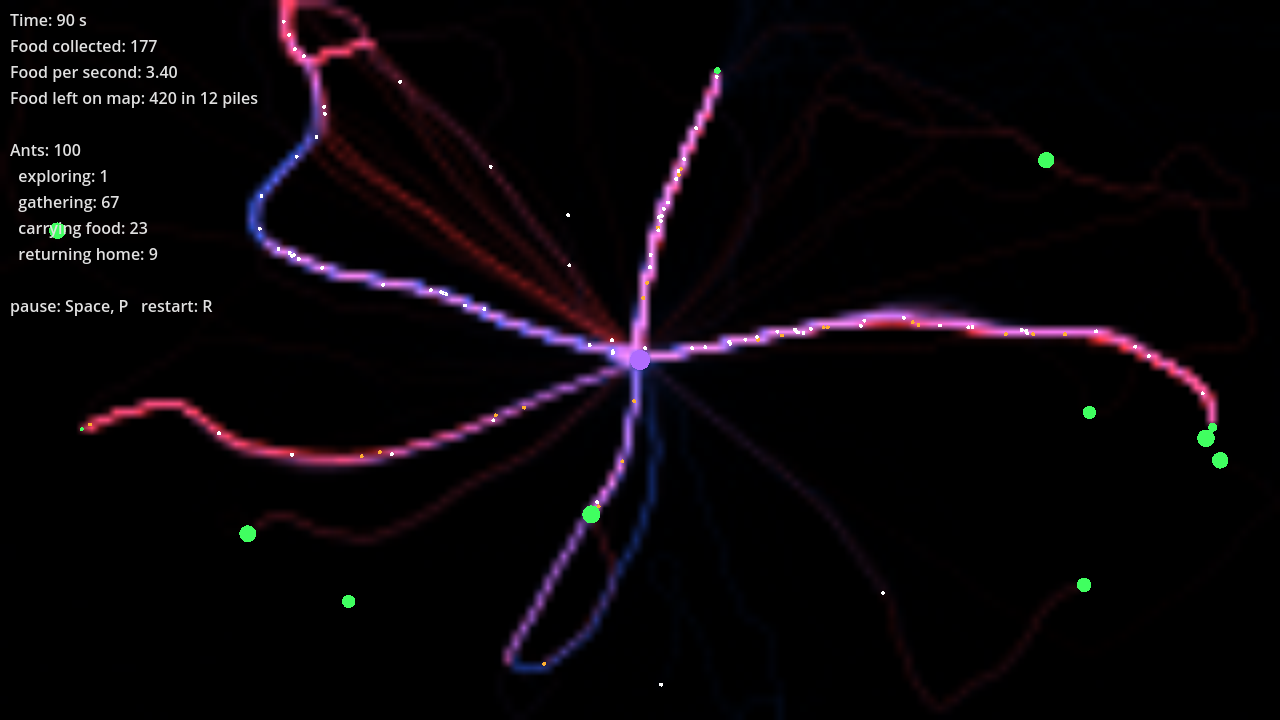
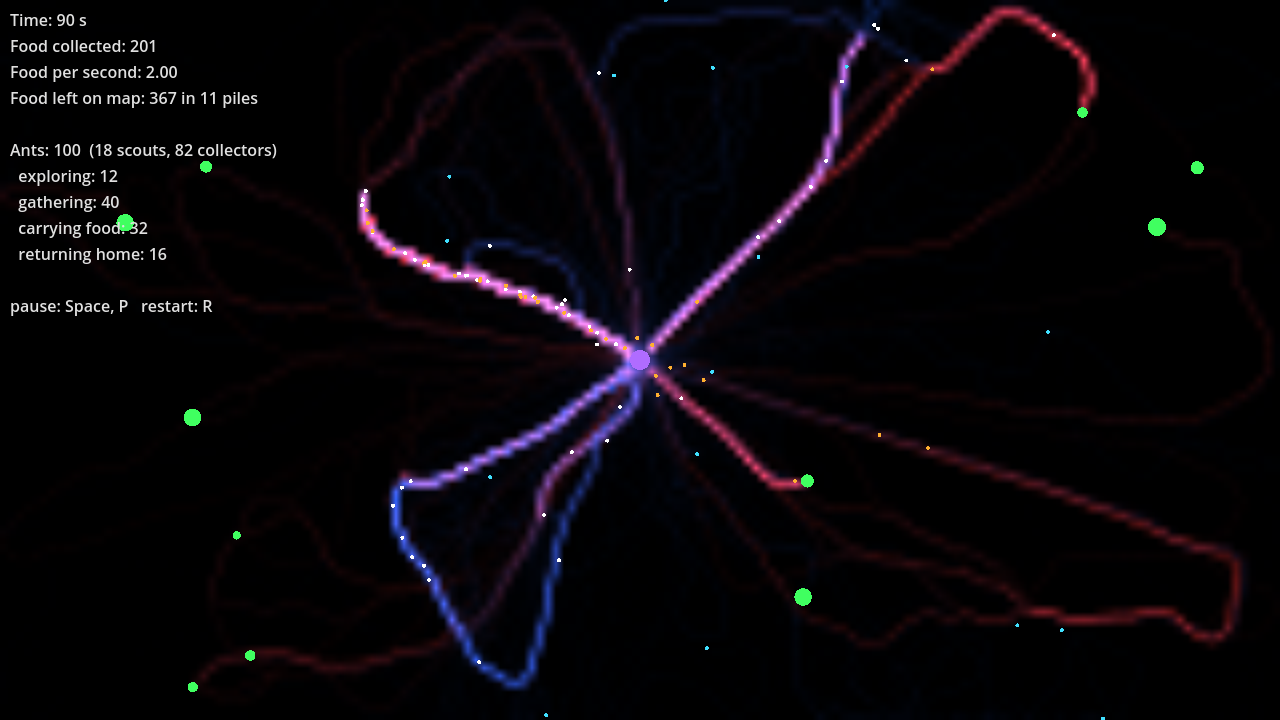
Add scout and collector ant personalities (20% / 80%)
Claude-Session: https://claude.ai/code/session_01U91HAFVKbeBjaCWM2Qyx5h

diff --git a/REQUEST_LOG.md b/REQUEST_LOG.md
@@ -4,6 +4,25 @@ Newest first. Each entry: date, request (verbatim), what was done, commits.
 
 ---
 
+## #3 — 2026-10-20
+
+**Request:**
+> Yes. Give ants a randomized bahaviour. For now 80% focused on collection if there is something to collect and 20% on exploring
+
+**Done:**
+- Each ant is randomly born a **scout** (20%, `scout_fraction`) or a **collector** (80%).
+- Collectors behave as before: follow food trails whenever they smell one, go back for more
+  after delivering, and explore only when there's nothing to collect.
+- Scouts ignore food trails and keep exploring; they only carry food they find themselves
+  (starting a new trail for collectors), then go back to exploring.
+- Homebodies (stay near the nest) now apply to collectors only.
+- Scouts drawn in light blue; stats panel shows scout/collector counts.
+- Test (4 random maps, 5 minutes each): 643 food on average vs 525 without scouts (+22%).
+
+**Commits:** _(filled in below once committed)_
+
+---
+
 ## #2 — 2026-10-20
 
 **Request:**

diff --git a/README.md b/README.md
@@ -9,7 +9,7 @@ A video game prototype made with **Godot 4.3+** (standard version, not .NET).
 3. Press **F5** (Run). **Space** pauses, **R** restarts with a new random map.
 
 ## What you see
-An ant colony simulation. Purple dot = nest, white dots = ants, orange dots = ants carrying
+An ant colony simulation. Purple dot = nest, white dots = collector ants, light-blue dots = scout ants, orange dots = ants carrying
 food, green dots = food piles (bigger = more food). Blue glow = "going out" pheromone,
 red glow = "going home" pheromone (pink where both overlap). Stats are in the top-left corner.
 
